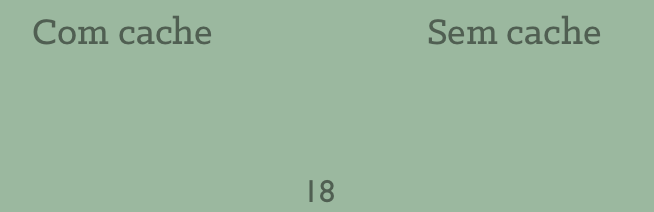
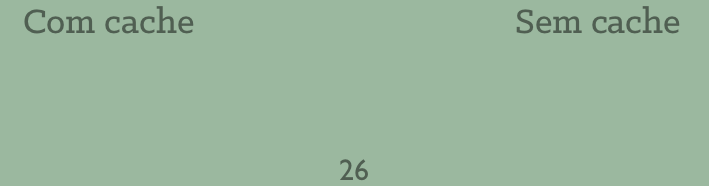
adds new slides

Changed region(s): [[0.6422, 0.0269, 0.9786, 0.2151], [0.0306, 0.0269, 0.3364, 0.2151], [0.4587, 0.8333, 0.5199, 0.9677]]

diff --git a/slides/index.html b/slides/index.html
@@ -91,6 +91,30 @@
 				<section>
           <img width="1024" height="780" src="img/17.png" alt="Down arrow">
 				</section>
+				<section>
+          <img width="1024" height="780" src="img/18.png" alt="Down arrow">
+				</section>
+				<section>
+          <img width="1024" height="780" src="img/19.png" alt="Down arrow">
+				</section>
+				<section>
+          <img width="1024" height="780" src="img/20.png" alt="Down arrow">
+				</section>
+				<section>
+          <img width="1024" height="780" src="img/21.png" alt="Down arrow">
+				</section>
+				<section>
+          <img width="1024" height="780" src="img/22.png" alt="Down arrow">
+				</section>
+				<section>
+          <img width="1024" height="780" src="img/23.png" alt="Down arrow">
+				</section>
+				<section>
+          <img width="1024" height="780" src="img/24.png" alt="Down arrow">
+				</section>
+				<section>
+          <img width="1024" height="780" src="img/25.png" alt="Down arrow">
+				</section>
 
         <section>
           <img width="600" height="150" src="img/resultados.png" alt="Down arrow">
@@ -102,7 +126,7 @@
         </section>
 
 				<section>
-          <img width="1024" height="780" src="img/19.png" alt="Down arrow">
+          <img width="1024" height="780" src="img/27.png" alt="Down arrow">
 				</section>
 			</div>
 
